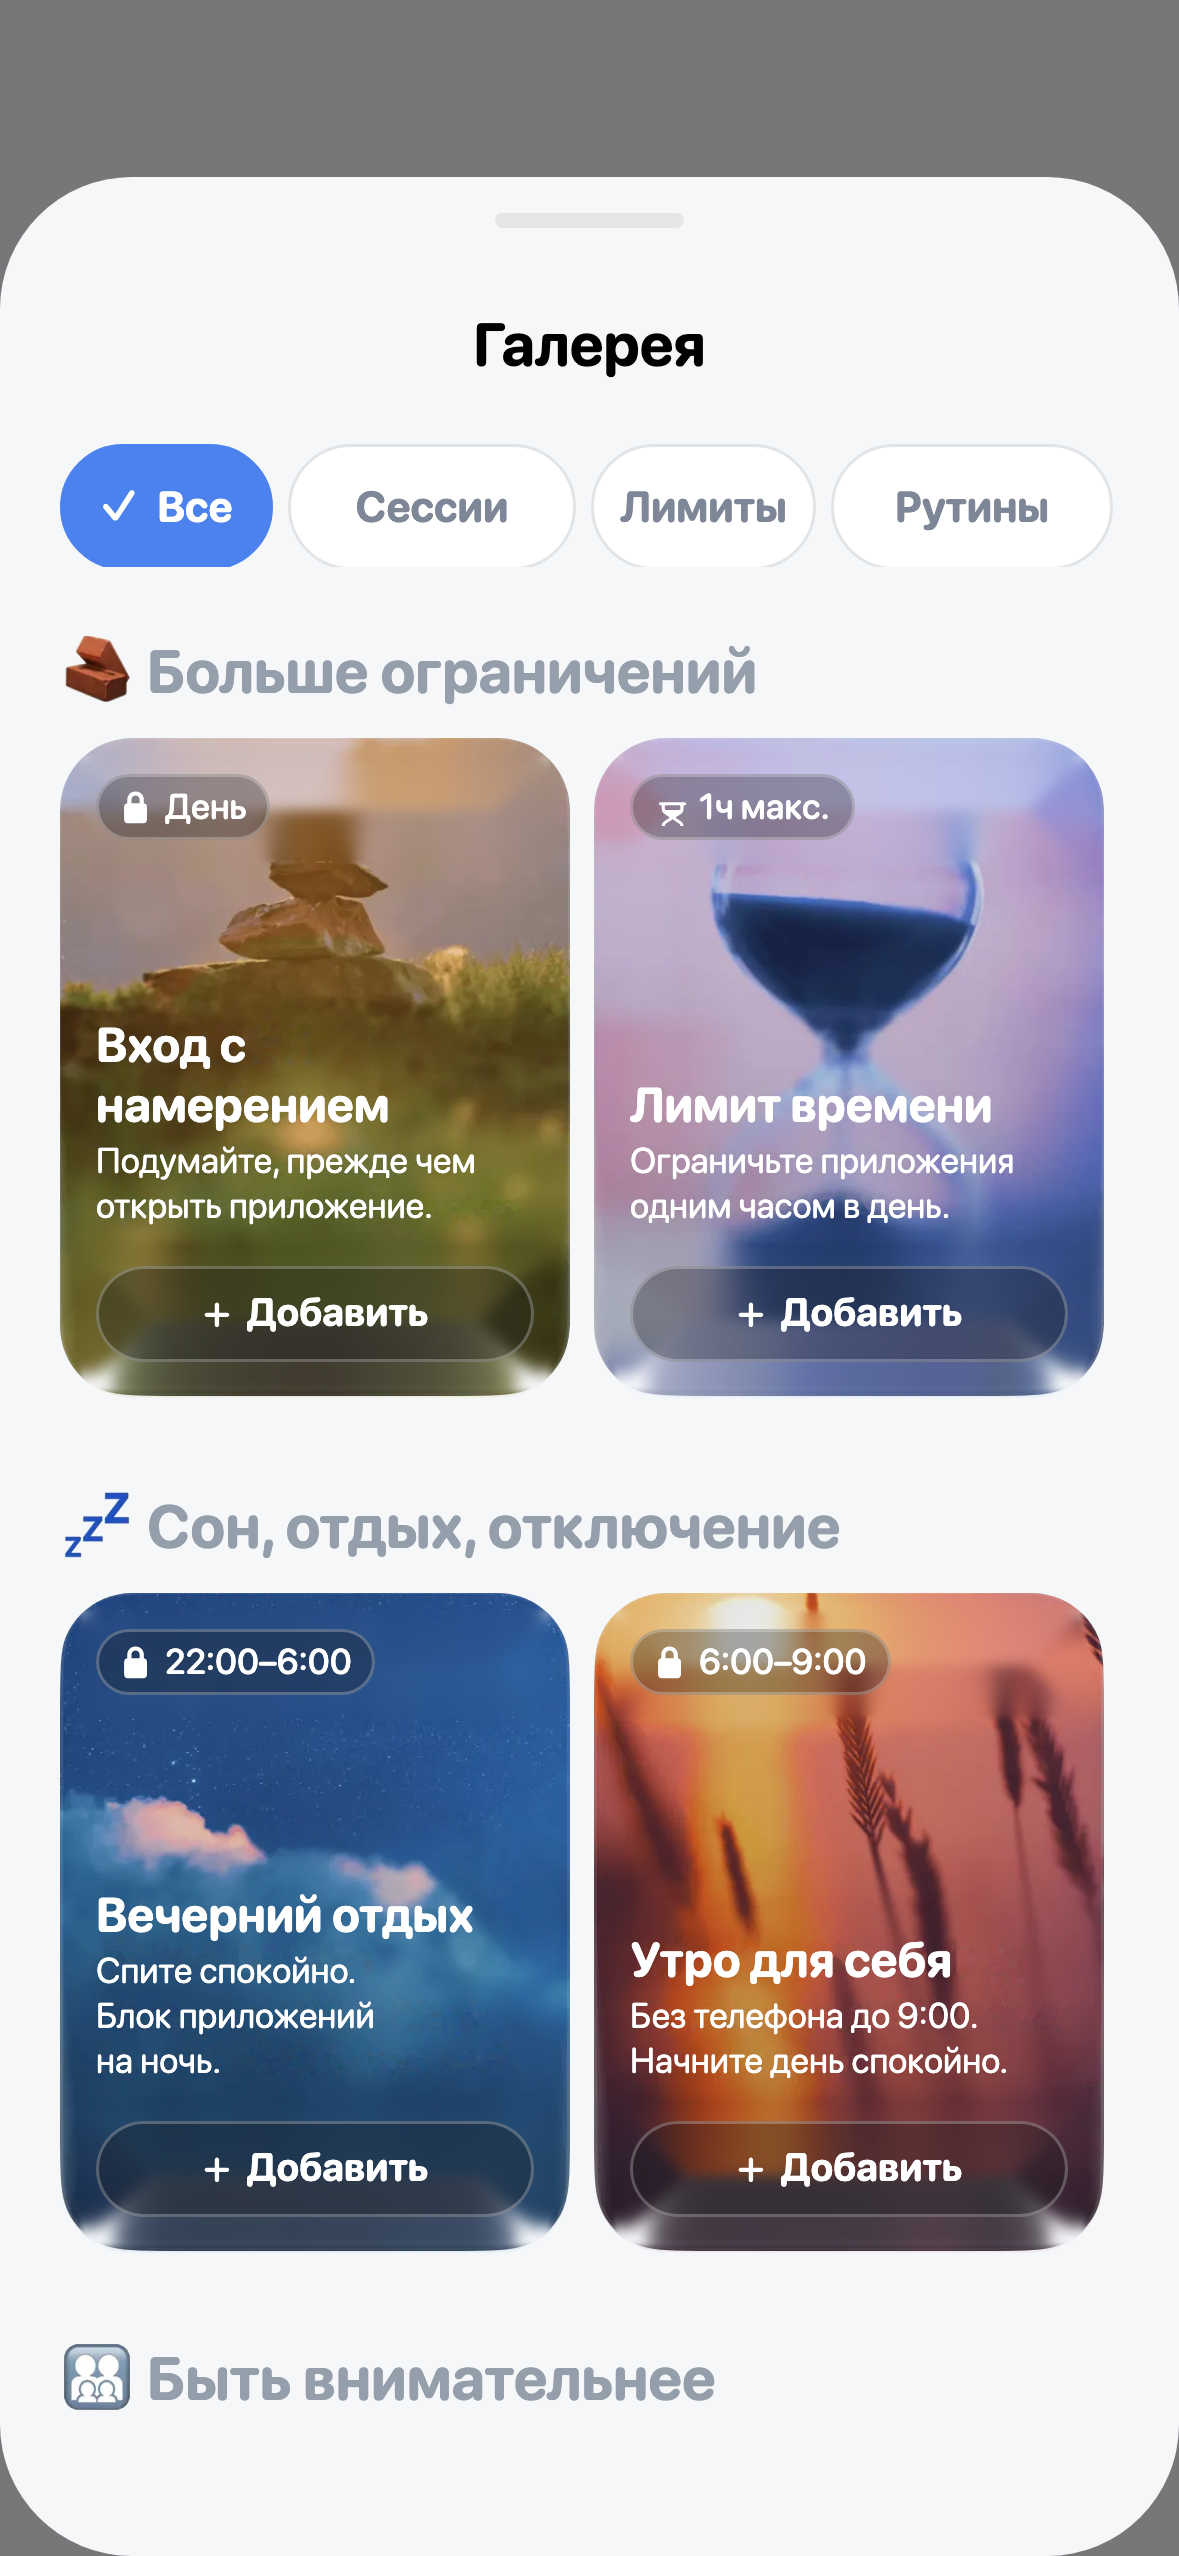
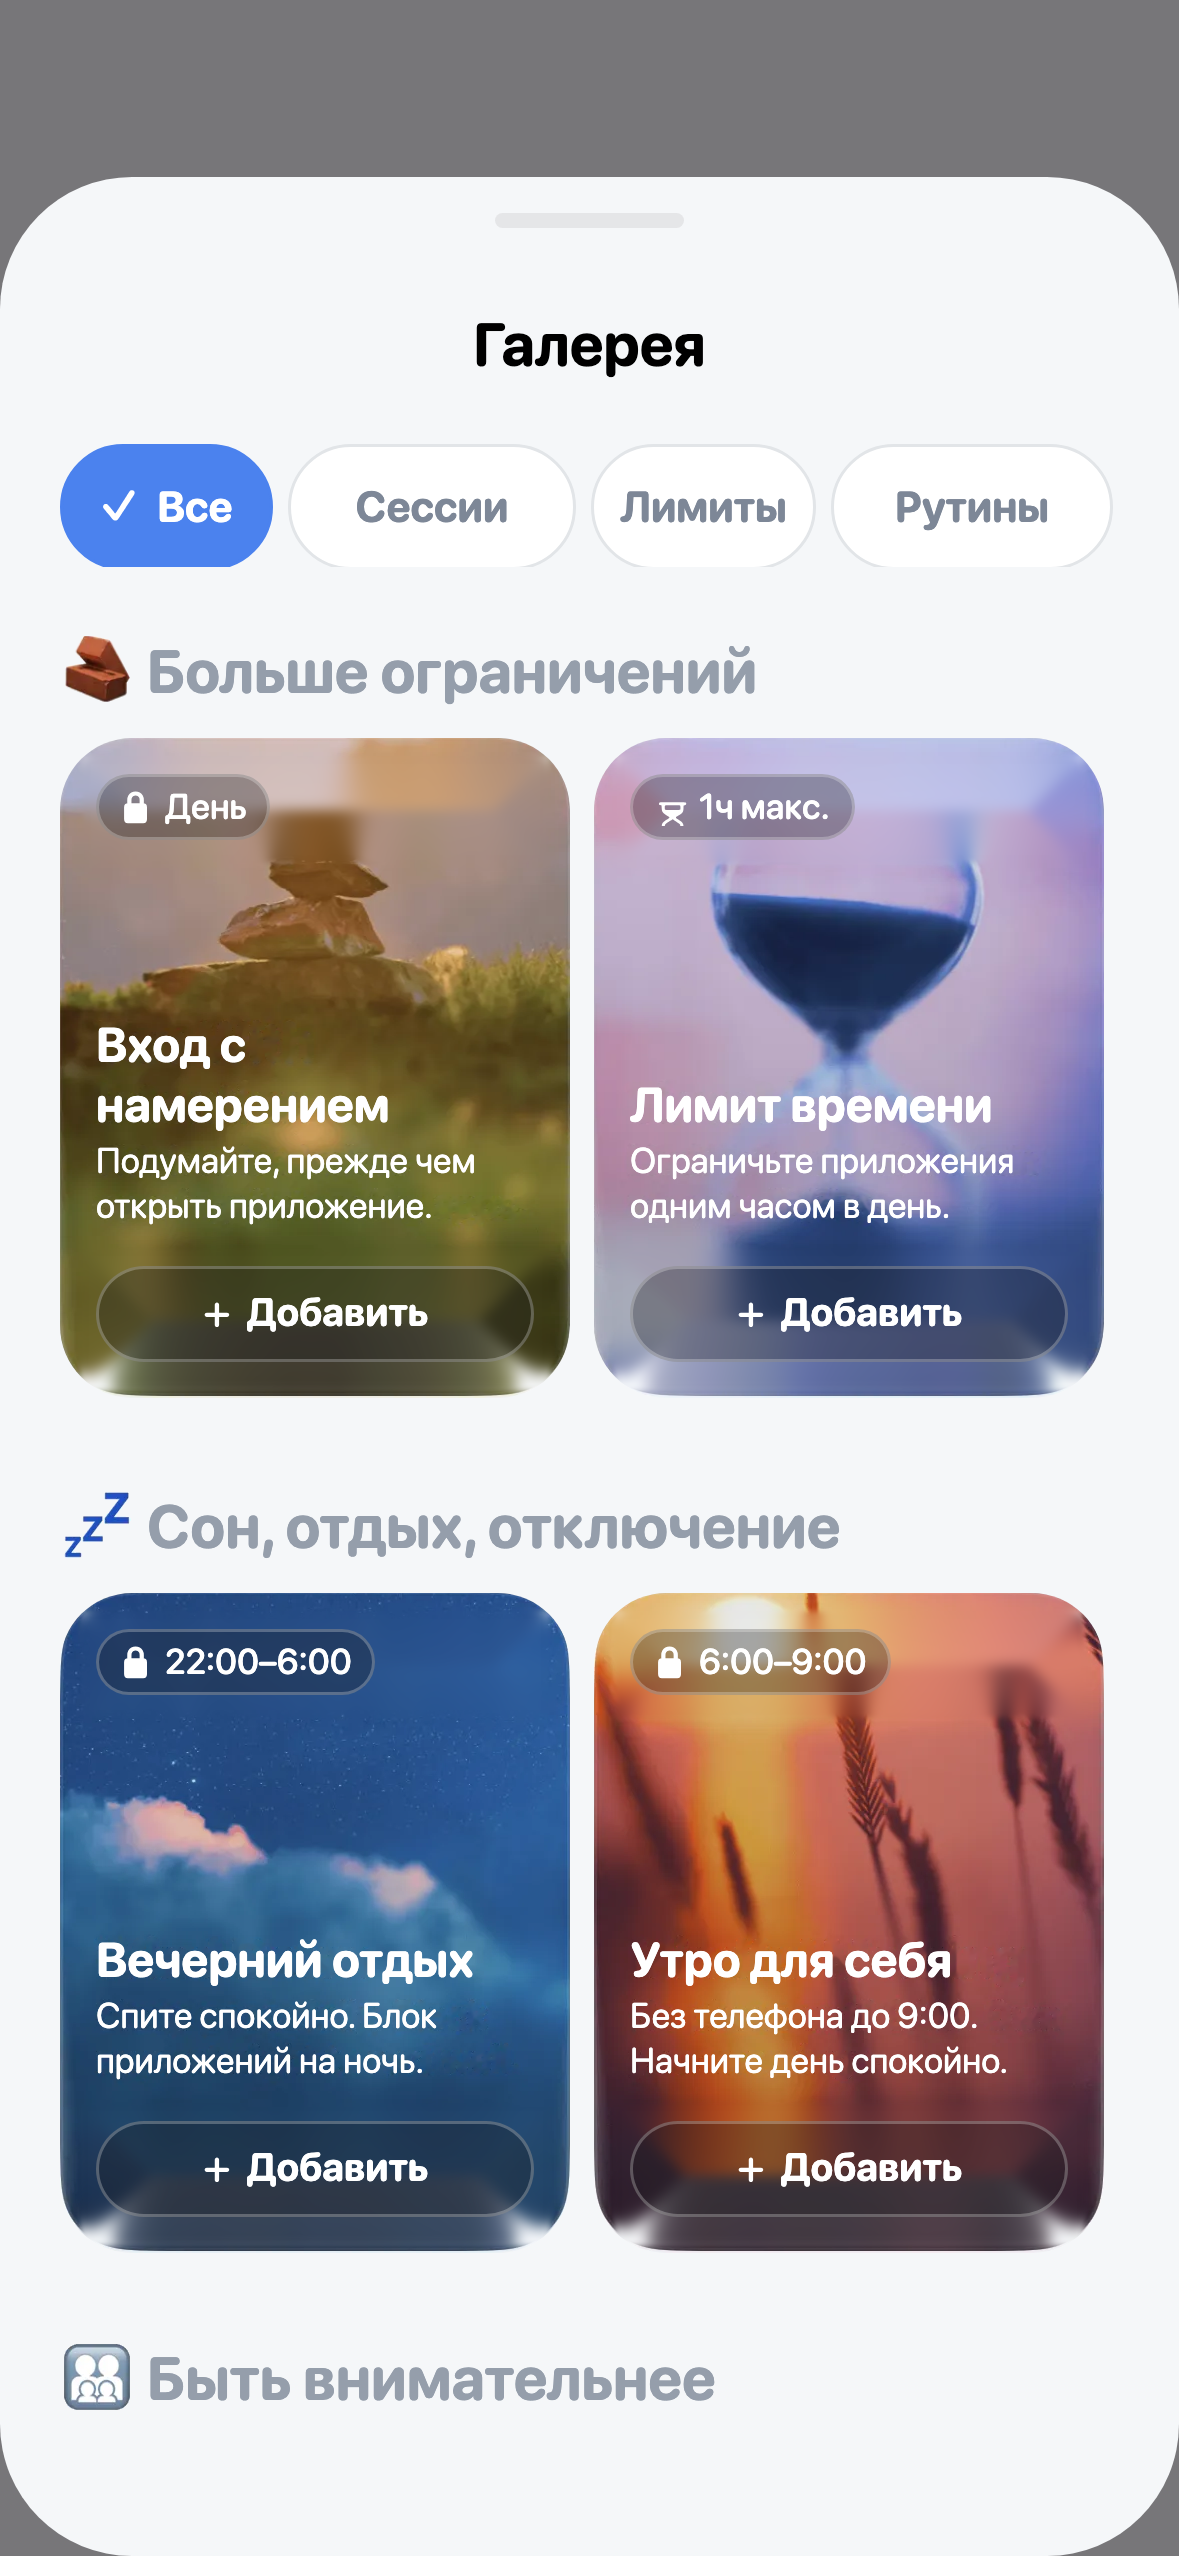
Проверить все подборки галереи и уточнить вечернюю карточку

Changed region(s): [[0.0611, 0.7418, 0.3969, 0.8345]]

diff --git a/src/data/gallery.ts b/src/data/gallery.ts
@@ -10,7 +10,7 @@ export const gallerySections = [
     { id: 'limit', title: 'Лимит времени', description: 'Ограничьте приложения\nодним часом в день.', badge: '1ч макс.', image: art.galleryLimit, kind: 'limit' },
   ] },
   { title: 'Сон, отдых, отключение', image: art.gallerySleep, cards: [
-    { id: 'wind', title: 'Вечерний отдых', description: 'Спите спокойно.\nБлок приложений\nна ночь.', badge: '22:00–6:00', image: art.galleryWind, kind: 'session' },
+    { id: 'wind', title: 'Вечерний отдых', description: 'Спите спокойно. Блок\nприложений на ночь.', badge: '22:00–6:00', image: art.galleryWind, kind: 'session' },
     { id: 'morning', title: 'Утро для себя', description: 'Без телефона до 9:00.\nНачните день спокойно.', badge: '6:00–9:00', image: art.galleryMorning, kind: 'session' },
   ] },
 ] as const;

diff --git a/docs/reviews/2026-11-03-gallery/README.md b/docs/reviews/2026-11-03-gallery/README.md
@@ -7,3 +7,5 @@ SavedTemplateCard переиспользован для личных; кнопк
 Фотографии отделены от UI. В исходных clean.png оставались запечённые бейджи/кнопки и остатки букв: локально восстановлены через OpenCV (tools/gen-gallery-art.py), новые заливки/рамки/текст — View/SVG. Восстановление утраченной фотографии приблизительное, полного совпадения пикселей в этих зонах нет. В проект не добавлены пакеты: OpenCV только во временном окружении /tmp/block-image-tools.
 
 Chrome393×852: просмотрены оба состояния и прокрутка; tools/check-gallery.mjs проверяет фильтр и передачу длительности/расписания в редакторы. Системная строка/личные данные/обрезка третьей карточки отличаются. iPhone/Android визуально не проверены, OS-блокировки нет, данные в памяти.
+
+Дополнительно tools/check-gallery-presets.mjs проверяет все5сценариев, переход через полночь,7дней и независимость черновиков. Вечерний текст приведён к двум строкам исходника.
